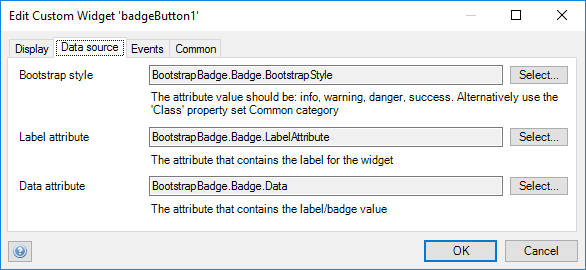
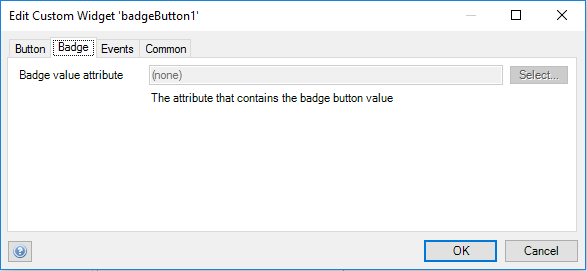
Update readme

diff --git a/src/components/BadgeButtonContainer.ts b/src/components/BadgeButtonContainer.ts
@@ -153,13 +153,20 @@ export default class BadgeButtonContainer extends Component<BadgeButtonContainer
     }
 
     public static parseStyle(style = ""): { [key: string]: string } {
-        return style.split(";").reduce<{ [key: string]: string }>((styleObject, line) => {
-            const pair = line.split(":");
-            if (pair.length === 2) {
-                const name = pair[0].trim().replace(/(-.)/g, match => match[1].toUpperCase());
-                styleObject[name] = pair[1].trim();
-            }
-            return styleObject;
-        }, {});
+        try {
+            return style.split(";").reduce<{ [key: string]: string }>((styleObject, line) => {
+                const pair = line.split(":");
+                if (pair.length === 2) {
+                    const name = pair[0].trim().replace(/(-.)/g, match => match[1].toUpperCase());
+                    styleObject[name] = pair[1].trim();
+                }
+                return styleObject;
+            }, {});
+        } catch (error) {
+            // tslint:disable no-console
+            console.log("Failed to parse style", style, error);
+        }
+
+        return {};
     }
 }

diff --git a/Gruntfile.js b/Gruntfile.js
@@ -122,7 +122,7 @@ module.exports = function(grunt) {
     grunt.registerTask(
         "release",
         "Compiles all the assets and copies the files to the dist directory. Minified without source mapping",
-        [ "checkDependencies", "clean:build", "webpack:release", "compress:dist", "copy:mpk" ]
+        [ "checkDependencies", "clean:build", "webpack:release", "file_append", "compress:dist", "copy:mpk" ]
     );
     grunt.registerTask("build", [ "clean build" ]);
 };

diff --git a/README.md b/README.md
@@ -6,7 +6,6 @@ A special distinctive mark or token put on any display as a button
 
  * Display a badge on a button.
  * Attach an onclick microflow 
- * Set a static label text when the persisted label is not specified
  * Set static data when the persisted data is not specified
 
 ## Dependencies
@@ -19,9 +18,9 @@ Mendix 7.2
 
 ![1](https://raw.githubusercontent.com/mendixlabs/badge-button/master/assets/demo.png)
 ## Usage
-Place the widget in the context of an object that has a label attribute, value attribute and bootstrap style attribute.
+Place the widget in the context of an object that has a value attribute.
 
-The data source attributes specified in the `Data source` tab are optional. If not set, static data should be specified in the `Display` tab.
+The data source attribute specified in the `Badge` tab is optional. If not set, static data should be specified in the `Button` tab.
 
 ![1](https://raw.githubusercontent.com/mendixlabs/badge-button/master/assets/Static_attributes.png)
 ![1](https://raw.githubusercontent.com/mendixlabs/badge-button/master/assets/Data_source.png)
@@ -30,7 +29,7 @@ The data source attributes specified in the `Data source` tab are optional. If n
 ## Issues, suggestions and feature requests
 
 We are actively maintaining this widget, please report any issues or suggestion for improvement at
-https://github.com/mendixlabs/badge-button/issues.
+[https://github.com/mendixlabs/badge-button/issues](https://github.com/mendixlabs/badge-button/issues)
 
 ## Developer
 Prerequisite: Install git, node package manager, webpack CLI, grunt CLI, Karma CLI
@@ -49,7 +48,7 @@ Create a folder named dist in the project root.
 
 Create a Mendix test project in the dist folder and rename its root folder to `dist/MxTestProject`. Changes to the widget code shall be automatically pushed to this test project.
 
-[https://github.com/MendixLabs/badge-button/releases/download/v1.0.0/Badge.mpk](https://github.com/MendixLabs/badge-button/releases/download/v1.0.0/Badge.mpk)
+[https://github.com/MendixLabs/badge-button/releases/download/V1.0.0/BadgeButton.mpk](https://github.com/MendixLabs/badge-button/releases/download/v1.0.0/Badge.mpk)
 
 To automatically compile, bundle and push code changes to the running test project, run:
 
